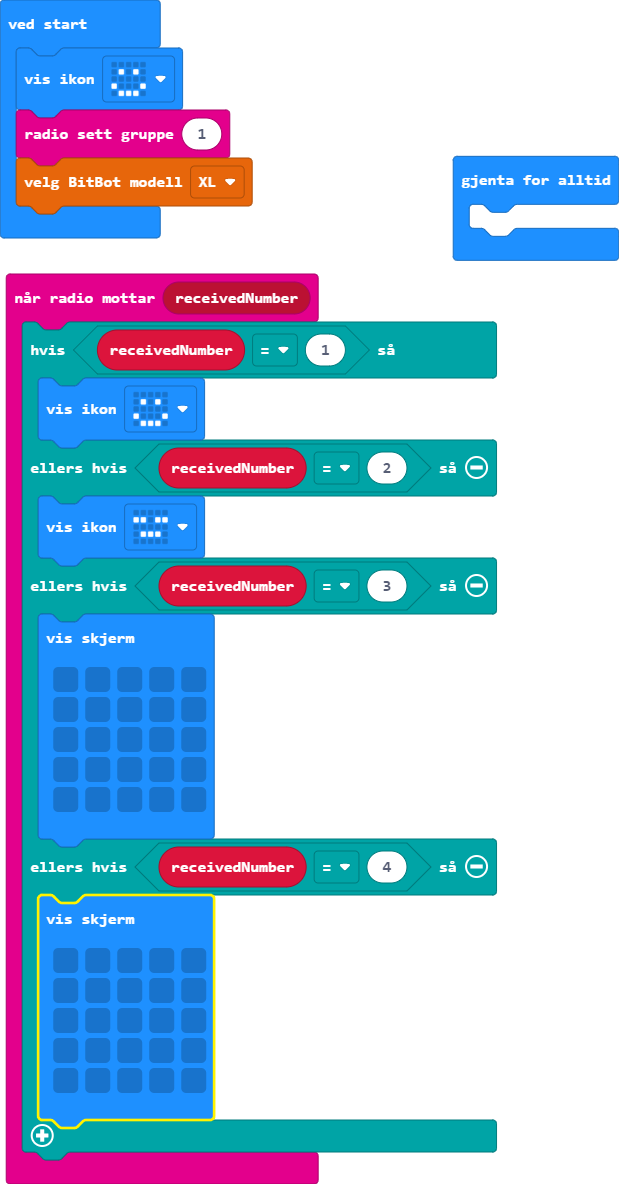
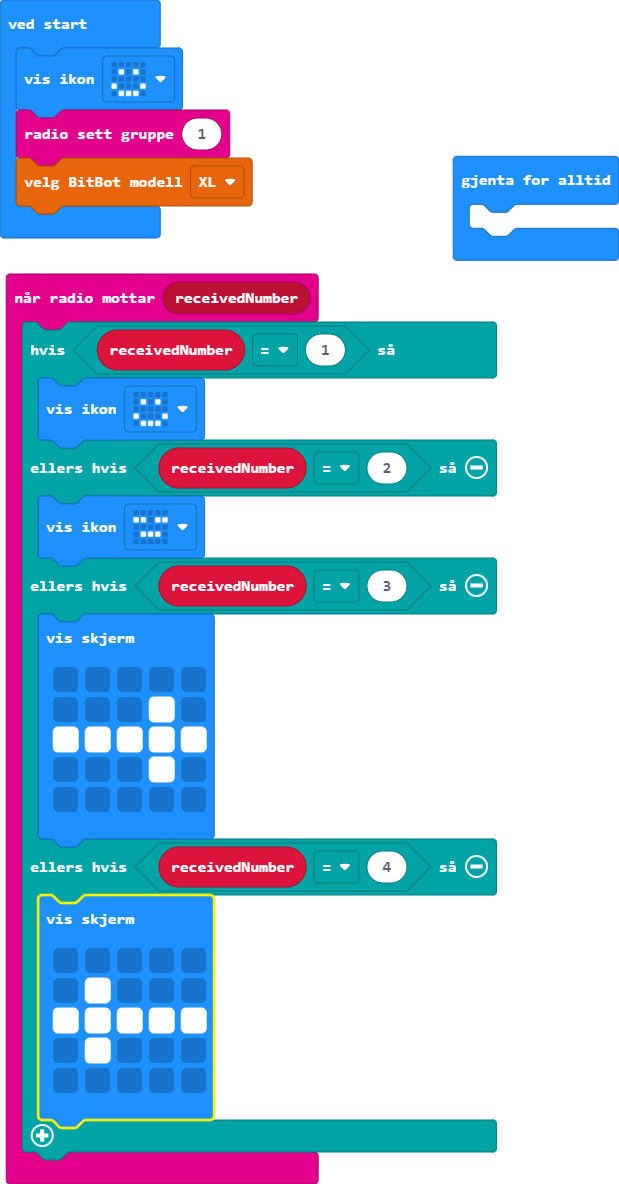
Oppdater main.blocks, main.ts

Changed region(s): [[0.0921, 0.5625, 0.3376, 0.6875], [0.0614, 0.8125, 0.3376, 0.9062]]

diff --git a/main.ts b/main.ts
@@ -6,17 +6,17 @@ radio.onReceivedNumber(function (receivedNumber) {
     } else if (receivedNumber == 3) {
         basic.showLeds(`
             . . . . .
-            . . . . .
-            . . . . .
-            . . . . .
+            . . . # .
+            # # # # #
+            . . . # .
             . . . . .
             `)
     } else if (receivedNumber == 4) {
         basic.showLeds(`
             . . . . .
-            . . . . .
-            . . . . .
-            . . . . .
+            . # . . .
+            # # # # #
+            . # . . .
             . . . . .
             `)
     }
